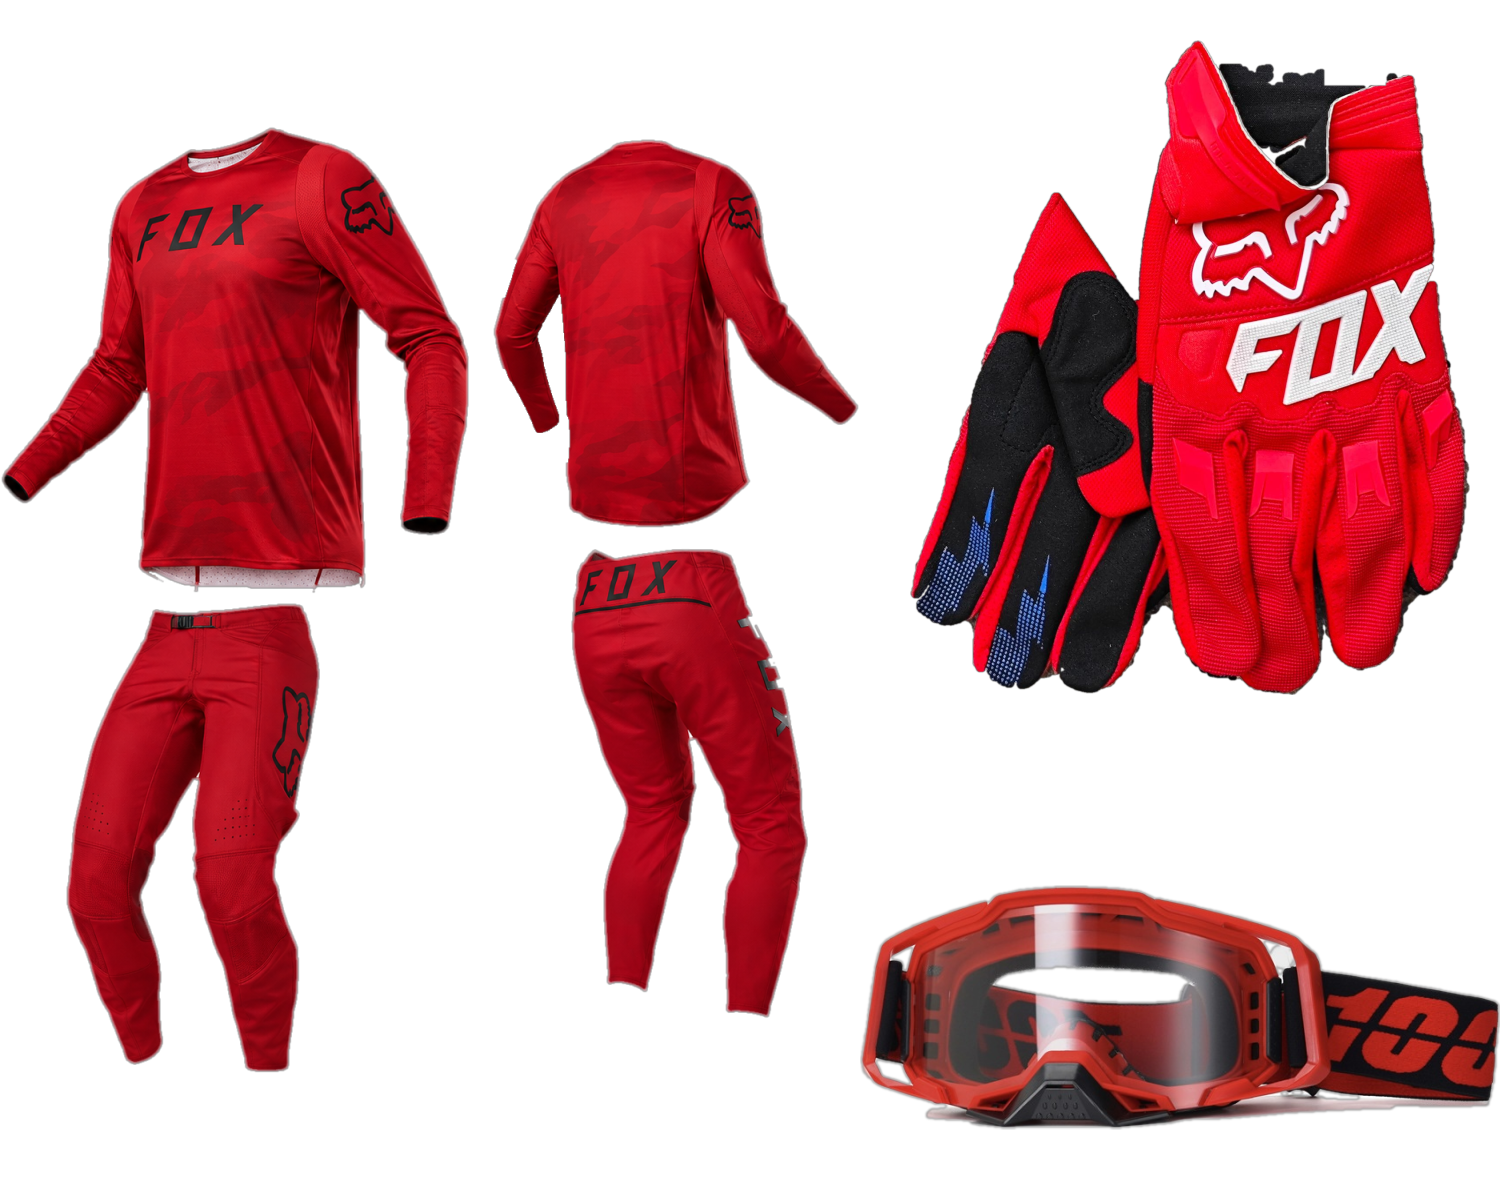
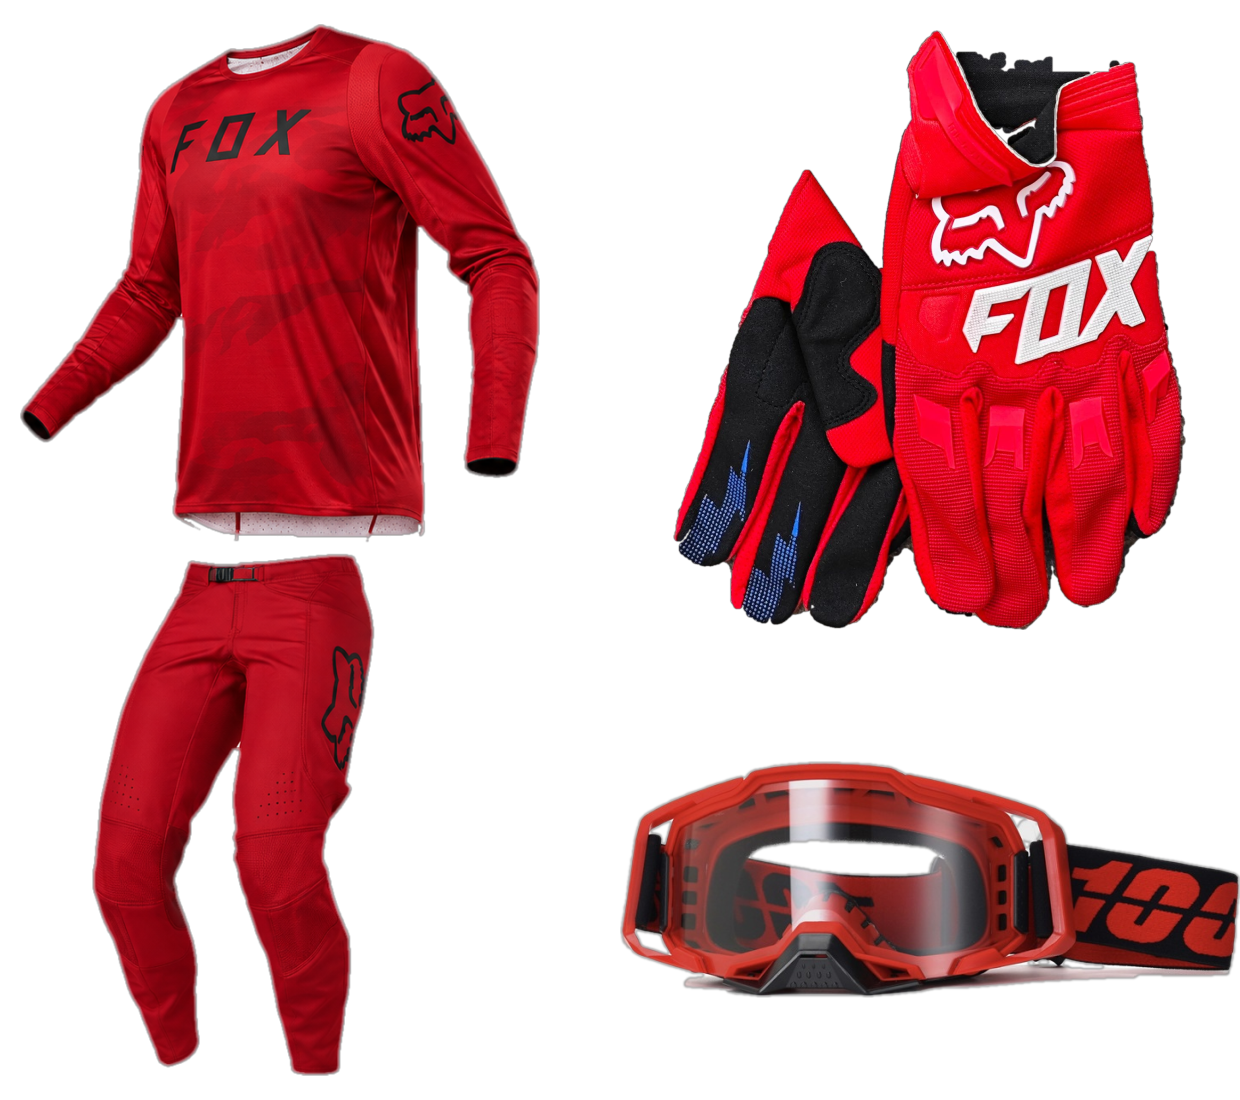
Giveaway: larger, less crowded prize images; story uses full-width prize rows
Claude-Session: https://claude.ai/code/session_01BikhFmAj6zsRsX4kAHmHp9

diff --git a/social/giveaway-craciun/giveaway.html b/social/giveaway-craciun/giveaway.html
@@ -99,33 +99,33 @@
   .pname { font: 900 36px/1 'Montserrat'; letter-spacing: -.02em; margin-top: 12px; text-transform: uppercase; }
   .pdesc { font: 600 20px/1.3 'Inter'; opacity: .9; margin-top: 8px; }
 
-  /* post: stacked on the right */
-  .post .prize { right: 44px; width: 540px; --r: 38px; padding: 14px 24px 14px 14px; gap: 18px; }
-  .post .prize .img { width: 200px; height: 172px; border-radius: 28px; background: radial-gradient(closest-side, rgba(255,255,255,.28), rgba(255,255,255,0)); }
-  /* descending sizes: 1 > 2 > 3 */
-  .post .p1 { top: 548px; width: 612px; height: 262px; --r: 42px; }
-  .post .p1 .img { width: 292px; height: 236px; }
-  .post .p1 .pname { font-size: 36px; } .post .p1 .pdesc { font-size: 22px; }
-  .post .p2 { top: 826px; width: 540px; height: 200px; }
-  .post .p2 .img { width: 236px; height: 172px; }
-  .post .p2 .pname { font-size: 33px; } .post .p2 .pdesc { font-size: 19px; }
-  .post .p3 { top: 1042px; width: 470px; height: 172px; --r: 34px; padding: 12px 20px 12px 12px; gap: 14px; }
-  .post .p3 .img { width: 158px; height: 146px; border-radius: 24px; }
+  /* post: stacked on the right, descending sizes 1 > 2 > 3 */
+  .post .prize { right: 44px; --r: 40px; padding: 14px 26px 14px 14px; gap: 20px; }
+  .prize .img { border-radius: 28px; background: radial-gradient(closest-side, rgba(255,255,255,.30), rgba(255,255,255,0)); }
+  .post .p1 { top: 492px; width: 680px; height: 292px; --r: 44px; }
+  .post .p1 .img { width: 320px; height: 264px; }
+  .post .p1 .pname { font-size: 38px; } .post .p1 .pdesc { font-size: 21px; }
+  .post .p2 { top: 798px; width: 620px; height: 234px; }
+  .post .p2 .img { width: 330px; height: 206px; }
+  .post .p2 .pname { font-size: 31px; } .post .p2 .pdesc { font-size: 18px; }
+  .post .p3 { top: 1046px; width: 540px; height: 176px; --r: 34px; padding: 12px 22px 12px 12px; gap: 18px; }
+  .post .p3 .img { width: 190px; height: 152px; border-radius: 24px; }
   .post .p3 .pname { font-size: 28px; margin-top: 9px; } .post .p3 .pdesc { font-size: 17px; margin-top: 6px; }
-  .post .p3 .rank { height: 34px; font-size: 15px; } .post .p3 .rank i { width: 26px; height: 26px; font-size: 15px; }
+  .post .p3 .rank, .story .p3 .rank { height: 34px; font-size: 15px; } .post .p3 .rank i, .story .p3 .rank i { width: 26px; height: 26px; font-size: 15px; }
 
-  .story .prize { flex-direction: column; text-align: center; justify-content: flex-start; padding: 22px 18px 26px; --r: 44px; }
-  .story .prize .img { width: 100%; margin-bottom: 18px; }
-  .story .p1 { left: 368px; width: 372px; top: 980px; height: 590px; }
-  .story .p1 .img { height: 330px; }
-  .story .p1 .pname { font-size: 42px; } .story .p1 .pdesc { font-size: 20px; }
-  .story .p2 { left: 36px; width: 318px; top: 1080px; height: 490px; }
-  .story .p2 .img { height: 236px; }
-  .story .p2 .pname { font-size: 32px; } .story .p2 .pdesc { font-size: 18px; }
-  .story .p3 { left: 754px; width: 290px; top: 1160px; height: 410px; --r: 38px; padding: 18px 14px 22px; }
-  .story .p3 .img { height: 160px; margin-bottom: 14px; }
-  .story .p3 .pname { font-size: 28px; } .story .p3 .pdesc { font-size: 16px; }
-  .story .p3 .rank { height: 34px; font-size: 15px; } .story .p3 .rank i { width: 26px; height: 26px; font-size: 15px; }
+  /* story: full-width rows, descending sizes */
+  .story .prize { left: 50%; transform: translateX(-50%); padding: 18px 34px 18px 18px; gap: 28px; --r: 48px; }
+  .story .p1 { top: 600px; width: 1008px; height: 384px; }
+  .story .p1 .img { width: 420px; height: 318px; }
+  .story .p1 .pname { font-size: 52px; } .story .p1 .pdesc { font-size: 26px; }
+  .story .p1 .rank { height: 48px; font-size: 20px; } .story .p1 .rank i { width: 36px; height: 36px; font-size: 20px; }
+  .story .p2 { top: 1004px; width: 940px; height: 324px; --r: 44px; }
+  .story .p2 .img { width: 450px; height: 268px; }
+  .story .p2 .pname { font-size: 40px; } .story .p2 .pdesc { font-size: 22px; }
+  .story .p2 .rank { height: 42px; font-size: 18px; } .story .p2 .rank i { width: 32px; height: 32px; font-size: 18px; }
+  .story .p3 { top: 1348px; width: 860px; height: 242px; --r: 40px; padding: 14px 30px 14px 14px; }
+  .story .p3 .img { width: 290px; height: 214px; }
+  .story .p3 .pname { font-size: 34px; } .story .p3 .pdesc { font-size: 20px; }
 
   /* ---------- rules / cta ---------- */
   .rules { --r: 34px; display: flex; align-items: center; justify-content: space-between; padding: 0 16px 0 28px; }
@@ -151,8 +151,8 @@
   .voucher .vn { font: 900 1em/1 'Montserrat'; letter-spacing: -.03em; text-shadow: 0 2px 6px rgba(80,0,8,.5); }
   .voucher .vt { font: 800 .2em/1 'Montserrat'; letter-spacing: .25em; margin-top: .25em; padding-left: .25em; }
   .voucher .vr { flex: 1; display: grid; place-items: center; font: 800 .17em/1 'Montserrat'; letter-spacing: .2em; writing-mode: vertical-rl; transform: rotate(180deg); }
-  .post .p3 .voucher { font-size: 50px; }
-  .story .p3 .voucher { font-size: 66px; width: 92%; }
+  .post .p3 .voucher { font-size: 58px; width: 92%; }
+  .story .p3 .voucher { font-size: 72px; width: 80%; }
 </style></head>
 <body>
 <svg width="0" height="0" style="position:absolute">
